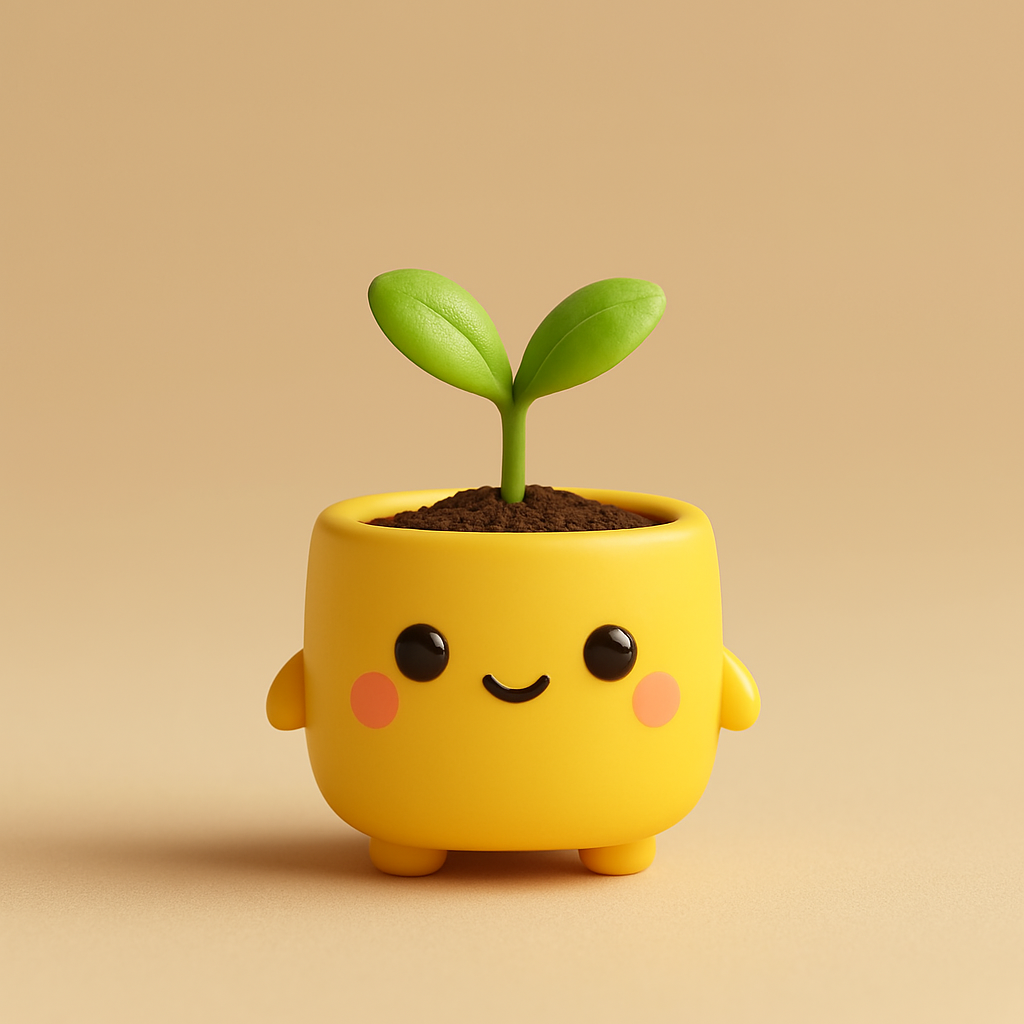
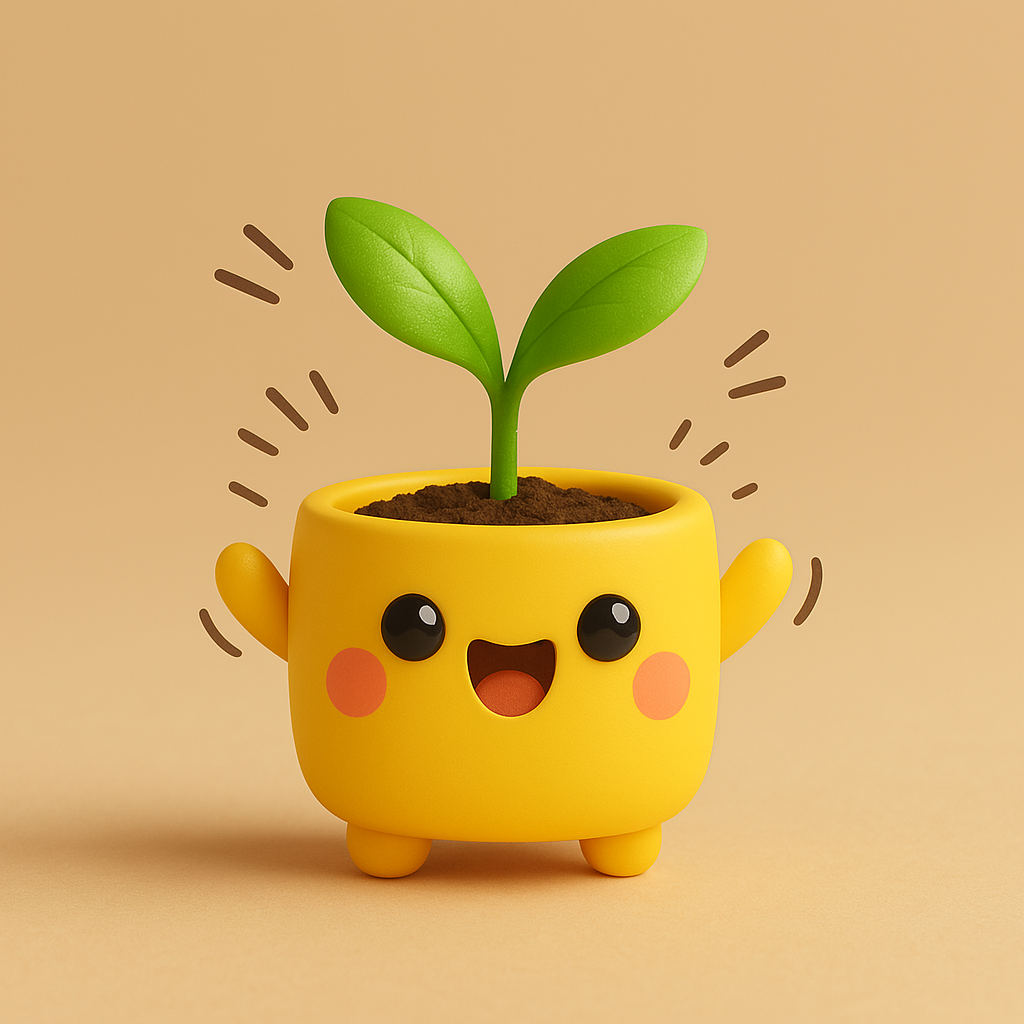
updated stage 0 and leafy says

diff --git a/lib/screens/home_page.dart b/lib/screens/home_page.dart
@@ -88,6 +88,13 @@ class _HomePageState extends State<HomePage> with SingleTickerProviderStateMixin
       curve: Curves.easeInOut,
     );
 
+    // 设置默认消息
+    setState(() {
+      displayedQuote = getWorkModeMessage();
+    });
+    _animationController.reset();
+    _animationController.forward();
+
     // 初始化时检查植物生长
     WidgetsBinding.instance.addPostFrameCallback((_) {
       context.read<ItemState>().updatePlantGrowth();
@@ -457,106 +464,163 @@ class _HomePageState extends State<HomePage> with SingleTickerProviderStateMixin
             child: Column(
               crossAxisAlignment: CrossAxisAlignment.stretch,
               children: [
-                // Leafy says 对话框 - 只在有引语时显示
-                if (displayedQuote.isNotEmpty)
-                  FadeTransition(
-                    opacity: _animation,
+                // Growth stage card
+                Container(
+                  height: screenHeight * 0.35,
+                  decoration: BoxDecoration(
+                    color: Colors.white,
+                    borderRadius: BorderRadius.circular(24),
+                    boxShadow: [
+                      BoxShadow(
+                        color: colorScheme.primary.withOpacity(0.1),
+                        blurRadius: 12,
+                        offset: const Offset(0, 6),
+                        spreadRadius: 2,
+                      )
+                    ],
+                  ),
+                  margin: const EdgeInsets.symmetric(vertical: 6),
+                  child: Column(
+                    mainAxisAlignment: MainAxisAlignment.center,
+                    children: [
+                      // Plant image
+                      Hero(
+                        tag: 'plant_image',
+                        child: Container(
+                          height: screenHeight * 0.28,
+                          width: screenHeight * 0.28,
+                          decoration: BoxDecoration(
+                            color: Colors.white,
+                            shape: BoxShape.circle,
+                            boxShadow: [
+                              BoxShadow(
+                                color: colorScheme.primary.withOpacity(0.1),
+                                blurRadius: 12,
+                                offset: const Offset(0, 6),
+                                spreadRadius: 2,
+                              )
+                            ],
+                          ),
+                          child: ClipOval(
+                            child: Image.asset(
+                              'assets/plants/stage${itemState.growthStage > 2 ? 2 : itemState.growthStage}_${itemState.currentEmotion.toLowerCase()}.png',
+                              fit: BoxFit.contain,
+                            ),
+                          ),
+                        ),
+                      ),
+                      const SizedBox(height: 4),
+                    ],
+                  ),
+                ),
+                // Leafy says 容器
+                const SizedBox(height: 6),
+                FadeTransition(
+                  opacity: _animation,
+                  child: Container(
+                    margin: const EdgeInsets.symmetric(vertical: 6),
+                    decoration: BoxDecoration(
+                      color: const Color(0xFFE8F5E9).withOpacity(0.8),
+                      borderRadius: BorderRadius.circular(24),
+                      boxShadow: [
+                        BoxShadow(
+                          color: const Color(0xFF1B5E20).withOpacity(0.1),
+                          blurRadius: 12,
+                          offset: const Offset(0, 6),
+                          spreadRadius: 2,
+                        )
+                      ],
+                    ),
                     child: Container(
+                      margin: const EdgeInsets.symmetric(horizontal: 12),
                       decoration: BoxDecoration(
                         color: const Color(0xFFE8F5E9).withOpacity(0.8),
                         borderRadius: BorderRadius.circular(30),
-                        boxShadow: [
-                          BoxShadow(
-                            color: const Color(0xFF1B5E20).withOpacity(0.1),
-                            blurRadius: 8,
-                            offset: const Offset(0, 4),
-                          ),
-                        ],
                       ),
                       child: Stack(
                         children: [
                           // 云朵装饰
                           Positioned(
+                            top: -6,
+                            left: 12,
+                            child: Container(
+                              width: 12,
+                              height: 12,
+                              decoration: BoxDecoration(
+                                color: const Color(0xFFE8F5E9).withOpacity(0.8),
+                                borderRadius: BorderRadius.circular(6),
+                              ),
+                            ),
+                          ),
+                          Positioned(
                             top: -10,
-                            left: 20,
+                            right: 12,
                             child: Container(
-                              width: 20,
-                              height: 20,
+                              width: 16,
+                              height: 16,
                               decoration: BoxDecoration(
                                 color: const Color(0xFFE8F5E9).withOpacity(0.8),
-                                borderRadius: BorderRadius.circular(10),
+                                borderRadius: BorderRadius.circular(8),
                               ),
                             ),
                           ),
                           Positioned(
-                            top: -15,
-                            right: 20,
+                            bottom: -6,
+                            left: 18,
                             child: Container(
-                              width: 25,
-                              height: 25,
+                              width: 10,
+                              height: 10,
                               decoration: BoxDecoration(
                                 color: const Color(0xFFE8F5E9).withOpacity(0.8),
-                                borderRadius: BorderRadius.circular(12.5),
+                                borderRadius: BorderRadius.circular(5),
                               ),
                             ),
                           ),
                           Positioned(
-                            bottom: -10,
-                            left: 30,
+                            bottom: -8,
+                            right: 18,
                             child: Container(
-                              width: 15,
-                              height: 15,
+                              width: 12,
+                              height: 12,
                               decoration: BoxDecoration(
                                 color: const Color(0xFFE8F5E9).withOpacity(0.8),
-                                borderRadius: BorderRadius.circular(7.5),
-                              ),
-                            ),
-                          ),
-                          Positioned(
-                            bottom: -12,
-                            right: 30,
-                            child: Container(
-                              width: 18,
-                              height: 18,
-                              decoration: BoxDecoration(
-                                color: const Color(0xFFE8F5E9).withOpacity(0.8),
-                                borderRadius: BorderRadius.circular(9),
+                                borderRadius: BorderRadius.circular(6),
                               ),
                             ),
                           ),
                           Padding(
-                            padding: const EdgeInsets.all(16),
+                            padding: const EdgeInsets.all(10),
                             child: Column(
                               children: [
                                 Row(
                                   mainAxisAlignment: MainAxisAlignment.start,
                                   children: [
                                     Container(
-                                      padding: const EdgeInsets.all(6),
+                                      padding: const EdgeInsets.all(3),
                                       decoration: BoxDecoration(
                                         color: const Color(0xFF1B5E20).withOpacity(0.1),
                                         borderRadius: BorderRadius.circular(12),
                                       ),
                                       child: Icon(
                                         Icons.eco,
-                                        size: 20,
+                                        size: 14,
                                         color: const Color(0xFF1B5E20),
                                       ),
                                     ),
-                                    const SizedBox(width: 8),
+                                    const SizedBox(width: 4),
                                     Text(
                                       "Leafy says:",
                                       style: GoogleFonts.nunito(
-                                        fontSize: 14,
+                                        fontSize: 15,
                                         fontWeight: FontWeight.w600,
                                         color: const Color(0xFF1B5E20),
                                       ),
                                     ),
                                   ],
                                 ),
-                                const SizedBox(height: 8),
+                                const SizedBox(height: 4),
                                 Container(
-                                  padding: const EdgeInsets.symmetric(horizontal: 12, vertical: 8),
+                                  padding: const EdgeInsets.symmetric(horizontal: 8, vertical: 4),
                                   decoration: BoxDecoration(
                                     color: Colors.white.withOpacity(0.8),
                                     borderRadius: BorderRadius.circular(16),
@@ -579,74 +643,8 @@ class _HomePageState extends State<HomePage> with SingleTickerProviderStateMixin
                       ),
                     ),
                   ),
-                if (displayedQuote.isNotEmpty) const SizedBox(height: 16),
-                // Growth stage card
-                Container(
-                  height: screenHeight * 0.44,
-                  decoration: BoxDecoration(
-                    color: Colors.white,
-                    borderRadius: BorderRadius.circular(24),
-                    boxShadow: [
-                      BoxShadow(
-                        color: colorScheme.primary.withOpacity(0.1),
-                        blurRadius: 12,
-                        offset: const Offset(0, 6),
-                        spreadRadius: 2,
-                      )
-                    ],
-                  ),
-                  margin: const EdgeInsets.symmetric(vertical: 8),
-                  child: Column(
-                    mainAxisAlignment: MainAxisAlignment.center,
-                    children: [
-                      // Plant image
-                      Hero(
-                        tag: 'plant_image',
-                        child: Container(
-                          height: screenHeight * 0.32,
-                          width: screenHeight * 0.32,
-                          decoration: BoxDecoration(
-                            color: Colors.white,
-                            shape: BoxShape.circle,
-                            boxShadow: [
-                              BoxShadow(
-                                color: colorScheme.primary.withOpacity(0.1),
-                                blurRadius: 12,
-                                offset: const Offset(0, 6),
-                                spreadRadius: 2,
-                              )
-                            ],
-                          ),
-                          child: ClipOval(
-                            child: Image.asset(
-                              'assets/plants/stage${itemState.growthStage}_${itemState.currentEmotion.toLowerCase()}.png',
-                              fit: BoxFit.contain,
-                            ),
-                          ),
-                        ),
-                      ),
-                      const SizedBox(height: 12),
-                      // Work mode message
-                      Text(
-                        getWorkModeMessage(),
-                        style: GoogleFonts.nunito(
-                          fontSize: 15,
-                          fontWeight: FontWeight.w600,
-                          color: colorScheme.primary,
-                          shadows: [
-                            Shadow(
-                              color: colorScheme.primary.withOpacity(0.2),
-                              offset: const Offset(0, 1),
-                              blurRadius: 2,
-                            )
-                          ],
-                        ),
-                        textAlign: TextAlign.center,
-                      ),
-                    ],
-                  ),
                 ),
-                const SizedBox(height: 12),
+                const SizedBox(height: 6),
                 
                 // Mood tracker
                 Container(

diff --git a/lib/providers/item_state.dart b/lib/providers/item_state.dart
@@ -18,7 +18,18 @@ class ItemState extends ChangeNotifier {
 
   // 构造函数
   ItemState() {
-    _loadData();
+    _initializeData();
+  }
+
+  // 初始化数据
+  Future<void> _initializeData() async {
+    try {
+      await _loadData();
+    } catch (e) {
+      print('Error loading data: $e');
+      // 如果加载失败，使用默认值
+      _saveData();
+    }
   }
 
   // 加载保存的数据
@@ -39,11 +50,16 @@ class ItemState extends ChangeNotifier {
     // 加载心情日志
     String? moodLogJson = prefs.getString('moodLog');
     if (moodLogJson != null) {
-      Map<String, dynamic> decodedLog = json.decode(moodLogJson);
-      _moodLog.clear();
-      decodedLog.forEach((key, value) {
-        _moodLog[DateTime.parse(key)] = Map<String, dynamic>.from(value);
-      });
+      try {
+        Map<String, dynamic> decodedLog = json.decode(moodLogJson);
+        _moodLog.clear();
+        decodedLog.forEach((key, value) {
+          _moodLog[DateTime.parse(key)] = Map<String, dynamic>.from(value);
+        });
+      } catch (e) {
+        print('Error decoding mood log: $e');
+        _moodLog.clear();
+      }
     }
 
     notifyListeners();
